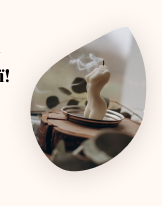
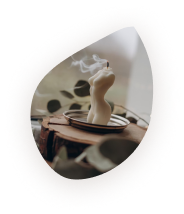
completed top

Changed region(s): [[0.1543, 0.1165, 0.9259, 0.8447], [0.0, 0.3204, 0.0617, 0.4078]]

diff --git a/css/style.css b/css/style.css
@@ -1,9 +1,10 @@
 @import url(reset.css);
 
 body {
-    font-family: 'Comfortaa', sans-serif;
+    font-family: 'Comfortaa', cursive;
     font-size: 14px;
     font-weight: 400;
+    line-height: 1.2;
 }
 
 .container {
@@ -61,7 +62,7 @@ body {
     color: #000;
     position: relative;
 }
-.header__phone::after {
+.header__phone::before {
     content: '';
     position: absolute;
     left: -24px;
@@ -78,10 +79,49 @@ body {
 
 .main {
     background-color: #FFF8F3;
+    overflow-x: clip;
 }
 
 /* ======================================== */
 
+.top {
+    padding: 40px 0 150px;
+}
+.container {
+}
+.top__inner {
+    position: relative;
+}
+.top__content {
+    width: 370px;
+    padding: 150px 0 250px;
+}
+.top__title {
+    font-family: 'Yeseva One';
+    font-size: 30px;
+    font-weight: 400;
+    font-style: normal;
+    margin-bottom: 15px;
+}
+.top__text {
+    margin-bottom: 48px;
+}
+.top__button {
+    background-color: #FFBD59;
+    padding: 18px 54px;
+    font-weight: 600;
+    justify-content: center;
+    align-items: center;
+}
+.top__button:hover {
+    background-color: #f1d34b;
+}
+
+.top__img {
+    position: absolute;
+    left: 240px;
+    top: 0;
+}
 /* ======================================== */
 /* ======================================== */
 /* ======================================== */
@@ -147,7 +187,57 @@ body {
 
 /* ======================================== */
 
-@media (max-width: 480px) {
+@media (max-width: 1000px) {
+    .container {
+        padding: 0 20px;
+    }
+    .top__content {
+        width: 333px;
+        padding: 95px 0 70px;
+    }
+    .top__img-l {
+        width: 655px;
+    }
+    .top__img {
+        left: 300px;
+    }
+    .top__text {
+        margin-bottom: 30px;
+    }
+}
+
+
+@media (max-width: 768px) {
+    body {
+        font-size: 10px;
+    }
+    .container {
+        max-width: 640px;
+    }
+    .header__phone::before {
+        width: 14px;
+        height: 14px;
+        left: -16px;
+        top: -3px;
+        background-size: cover;
+    }
+    .top__content {
+        width: 230px;
+    }
+    .top__title {
+        font-size: 20px;
+        margin-bottom: 20px;
+    }
+    .top__text {
+        font-size: 10px;
+        margin-bottom: 20px;
+    }
+    .top__img {
+        left: 180px;
+    }
+}
+
+@media (max-width: 640px) {
     .container {
         padding: 0 10px;
     }
@@ -196,6 +286,47 @@ body {
     }
     .footer__socials {
         justify-content: center;
+    }
+}
+
+@media (max-width: 480px) {
+    .top__img-l {
+        width: 309px;
+        left: 167px;
+    }
+    .top__content {
+        width: 180px;
+    }
+    .top__title {
+        font-size: 15px;
+        margin-bottom: 15px;
+    }
+    .top__text {
+        font-size: 8px;
+        margin-bottom: 15px;
+    }
+    .top__button {
+        font-size: 10px;
+        padding: 14px 41px;
+    }
+    .top {
+        padding: 30px 0 50px;
+    }
+}
+
+@media (max-width: 360px) {
+    .top__img-l {
+        width: 185px;
+    }
+    .top__content {
+        width: 200px;
+        padding: 20px 0 0;
+    }
+    .top__title {
+        font-size: 18px;
+    }
+    .top__text {
+        font-size: 10px;
     }
 }
 /* ======================================== */

diff --git a/index.html b/index.html
@@ -41,6 +41,23 @@
   </header>
 
   <main class="main">
+    <section class="top">
+      <div class="container top__inner">
+        <div class="top__content">
+          <h2 class="top__title">Створіть атмосферу затишку та гармонії!</h2>
+          <p class="top__text">Створіть особливу атмосферу у своєму домі з нашою екологічно чистою та якісною продукцією
+            зі 100% натуральної соєвого воску.</p>
+          <button class="top__button">Купити</button>
+        </div>
+        <picture class="top__img">
+          <source srcset="images/top/top-s.png" media="(max-width: 360px)">
+          <source srcset="images/top/top-m.png" media="(max-width: 480px)">
+          <img class="top__img-l" src="images/top/top-l.png" alt="Image">
+        </picture>
+      </div>
+    </section>
+
+
   </main>
 
   <footer class="footer">
